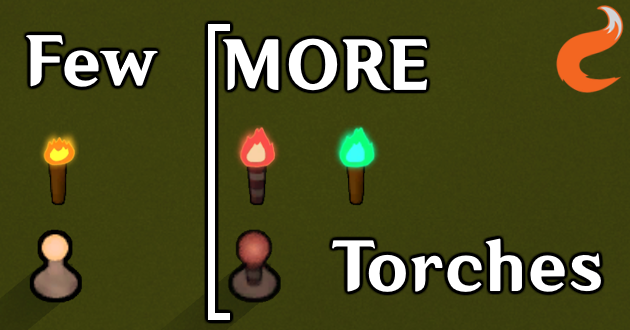
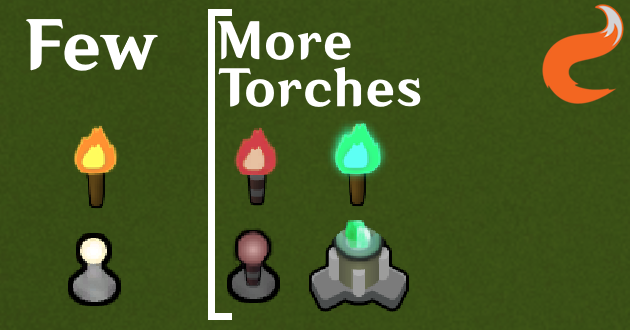
Uranium Lamp

diff --git a/README.md b/README.md
@@ -7,20 +7,28 @@ Adds a **few lights** to the game.
 
 # ![Blood Torch](https://i.postimg.cc/nhyQkNzq/blood-torch.png)
 
-Blood Torch from Biotech DLC can be built with wood and hemogen packs.
+Blood Torch from Biotech DLC can be built with wood and hemogen packs.  
 It gives a +2 boost to sanguophage mood and functions like a red-colored regular torch otherwise.
 
 # ![Blood Lamp](https://i.postimg.cc/0yMw7988/blood-lamp.png)
 
-Blood Lamp requires Biotech DLC and can be built with steel and hemogen packs.
-Like Blood Torch, it gives a +2 boost sanguophage mood and functions like a red-colored regular electric lamp otherwise.
-Requires Electricity research.
+Blood Lamp requires Biotech DLC and can be built with steel and hemogen packs.  
+Like Blood Torch, it gives a +2 boost sanguophage mood and functions like a red-colored regular electric lamp otherwise.  
+Requires Electricity research.  
+(Sprite credit: Araylie)
 
 # ![Uranium Torch](https://i.postimg.cc/mr716VzJ/uranium.png)
 
-Uranium Torch can be built with wood and uranium.
-It consumes fuel slowly and produces much more heat.
+Uranium Torch can be built with wood and uranium.  
+It consumes fuel slowly and produces much more heat.  
 Functions like a green-colored regular torch otherwise.
+
+# ![Uranium Lamp](https://i.postimg.cc/K8v6j44Q/uranium-lamp.png)
+
+Uranium Lamp can be built with steel and uranium.  
+It consumes much less electricity than the regular lamp.  
+Function like a green-colored regular lamp otherwise.  
+(Sprite credit: RoqueTheRogue)
 
 # ![Compatibility](https://i.postimg.cc/3NWwJJSM/h-Compatibility.png)
 
@@ -30,6 +38,10 @@ Functions like a green-colored regular torch otherwise.
 - No issues known with other mods.
 
 # ![Changelog](https://i.postimg.cc/k4T4mtyF/h-Changelog.png)
+
+#### 11.05.25
+
+- Uranium Lamp
 
 #### 05.05.25
 
